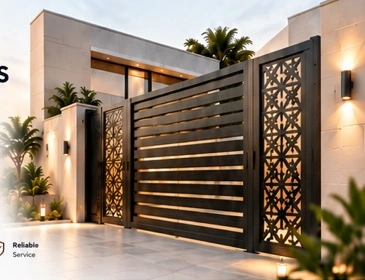
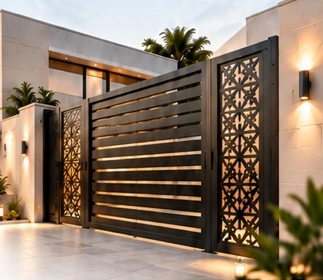
Fix hero feature clipping and crop reference image cleanly

diff --git a/style.css b/style.css
@@ -3,3 +3,5 @@
 @media(max-width:1050px){.wrap{width:calc(100% - 60px)}.header{gap:16px}.header .logo{width:210px}.header nav{gap:18px;font-size:12px}.header>.button{padding:12px}.hero h1{font-size:39px}.hero{height:560px}.services{gap:10px}.service img{height:100px}h2{font-size:30px}.section-note{max-width:250px}.hero-features{gap:20px}.about-copy{padding-left:30px}.values{gap:8px}.values i{font-size:23px}.step{gap:8px;padding:15px 9px}.step i{font-size:27px}footer{gap:18px}footer>div+div{padding-left:15px}.stats>div{gap:15px}}
 @media(max-width:700px){.wrap{width:calc(100% - 36px)}.header{height:80px}.header .logo{width:175px}.header>.button{font-size:11px;padding:11px}.menu{display:block;background:none;font-size:25px;margin-left:auto}.header nav{display:none;position:absolute;top:70px;left:0;right:0;background:#fff;padding:16px;box-shadow:0 8px 20px #0002;flex-direction:column;gap:3px;font-size:15px}.header nav.open{display:flex}.hero{margin-top:-80px;padding-top:80px;height:720px}.hero-image{top:auto;bottom:0;width:100%;height:310px;object-position:center 55%}.hero-shade{background:linear-gradient(180deg,#fffdf9 0%,#fffdf9 51%,#fffdf900 67%)}.hero-content{padding-top:28px}.eyebrow{font-size:10px;letter-spacing:1.2px}.hero h1{font-size:37px}.intro{font-size:14px;max-width:330px}.actions{margin-top:20px;gap:12px}.button{padding:14px 18px;font-size:12px}.hero-features{margin-top:23px;gap:20px}.hero-features p{font-size:10px}.hero-features i{font-size:26px}.hero-features>div{gap:6px}.section{padding:28px 0}.section-top{gap:17px;margin-bottom:22px;align-items:flex-start}.section-top:has(.section-note){display:block}.section-note{max-width:100%;margin-top:15px;font-size:13px}h2{font-size:27px;letter-spacing:-.6px}.services{grid-template-columns:repeat(2,1fr);gap:14px}.service{padding:10px 10px 15px}.service img{height:130px}.service h3{font-size:15px}.circle-arrow{width:27px;height:27px}.section-top>.button{font-size:10px;white-space:nowrap;padding:11px}.section-top>div>p:not(.eyebrow){font-size:13px}.desktop{display:none}.videos{grid-template-columns:repeat(2,1fr);gap:20px 12px}.video:last-child{display:none}.video img{height:125px;border-radius:15px}.video b{font-size:12px}.video small{font-size:10px}.projects{grid-template-columns:repeat(2,1fr);gap:10px}.project img{height:120px}.stats{grid-template-columns:repeat(2,1fr);gap:20px;padding-top:24px}.stats b{font-size:17px}.stats p{font-size:11px}.stats i{font-size:34px}.about{display:flex;flex-direction:column}.about-copy{padding:25px 18px}.about-copy>p:not(.eyebrow){font-size:14px}.about>img{height:260px;border-radius:0}.values{justify-content:space-between;gap:8px}.values span{font-size:9px}.values i{font-size:24px;margin-right:4px}.process{grid-template-columns:repeat(2,1fr);gap:10px}.step{padding:16px 10px;gap:8px}.step i{display:none}.step b{font-size:12px}.step small{font-size:10px}.number{padding:8px}.reviews{grid-template-columns:1fr;gap:13px}figure{padding:18px}.contact{padding:28px 0 120px;background:linear-gradient(180deg,#fffaf5 0%,#fffaf5 54%,#fffaf500 90%),url('assets/skyline.webp') right bottom/auto 180px no-repeat}.contact>div>p:not(.eyebrow){font-size:14px}.contact-links{flex-wrap:wrap;gap:20px}.contact-links>a:not(.button),.contact-links>span{font-size:13px;gap:9px}.contact-links i{font-size:27px}footer{grid-template-columns:repeat(2,1fr);gap:25px 15px;padding-top:25px;font-size:11px}footer .logo{width:175px}footer>div+div{border:0;padding-left:0}footer h3{font-size:13px}dialog{padding:35px 22px}dialog h2{font-size:23px}}
 @media(prefers-reduced-motion:reduce){html{scroll-behavior:auto}*{transition:none!important}}
+
+@media(min-width:701px){.hero{height:640px}.hero-shade{background:linear-gradient(90deg,#fffdf9 0%,rgba(255,255,255,.98) 34%,rgba(255,255,255,0) 51%)}}
